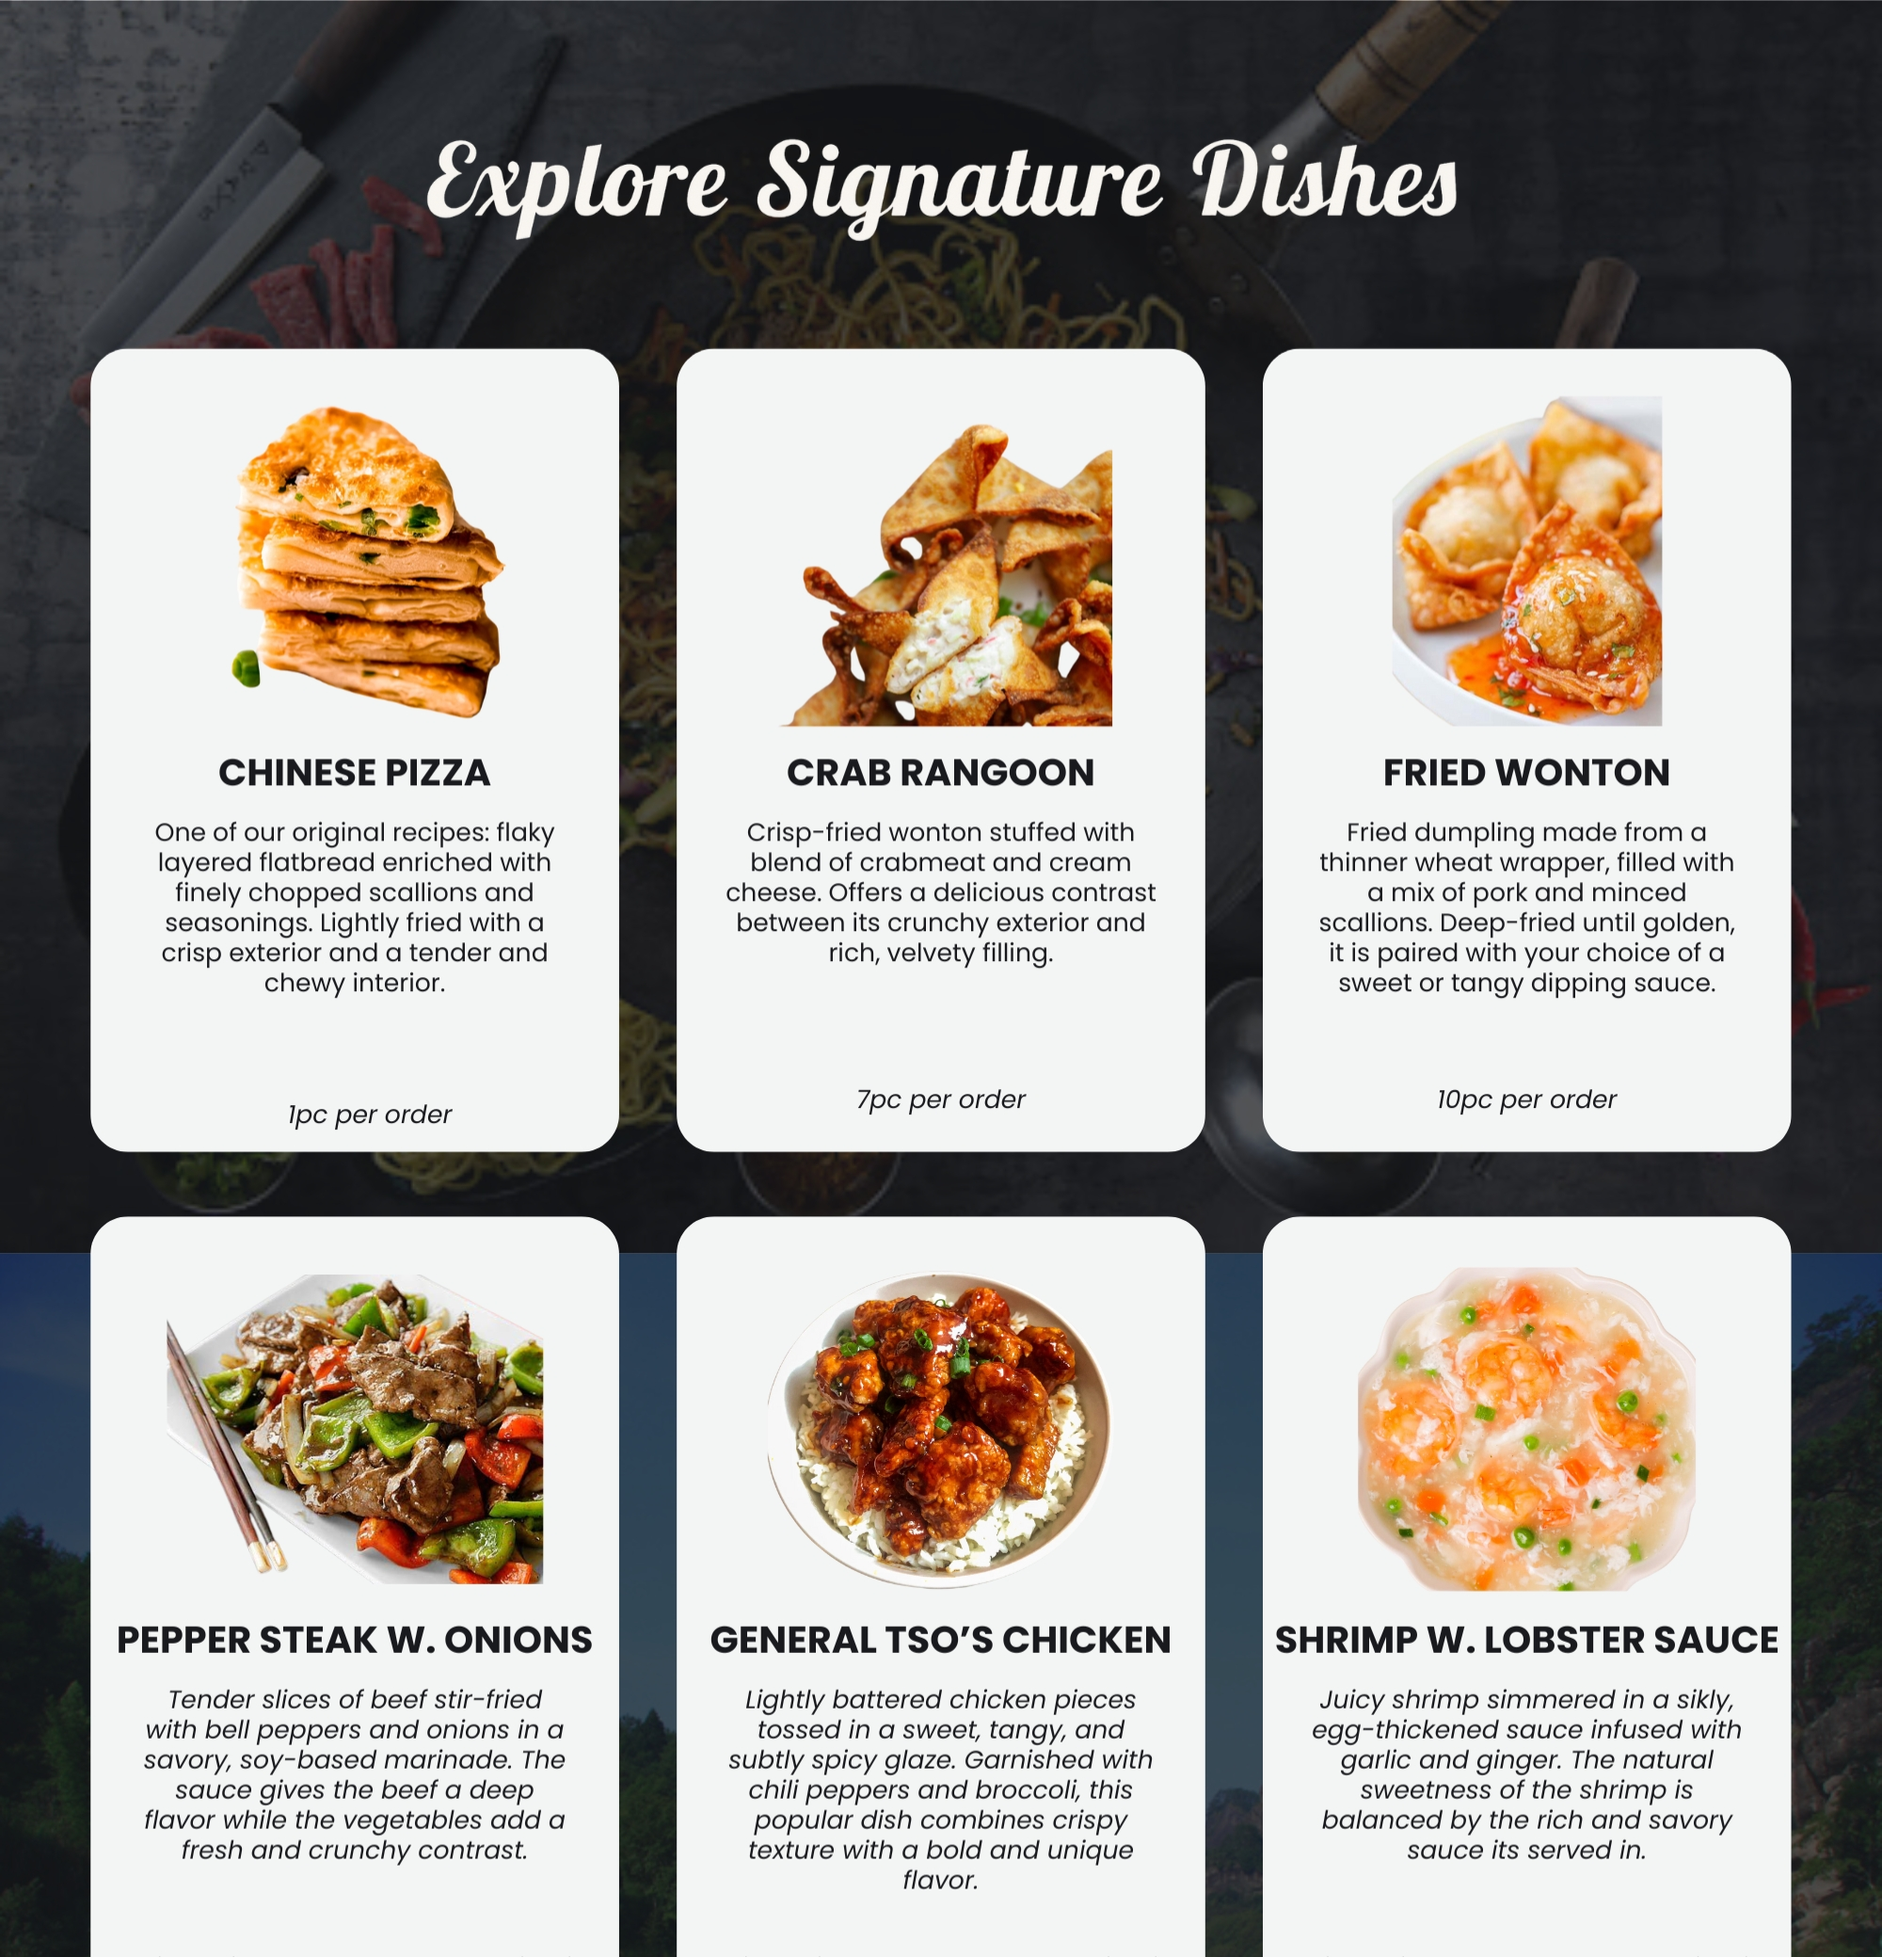
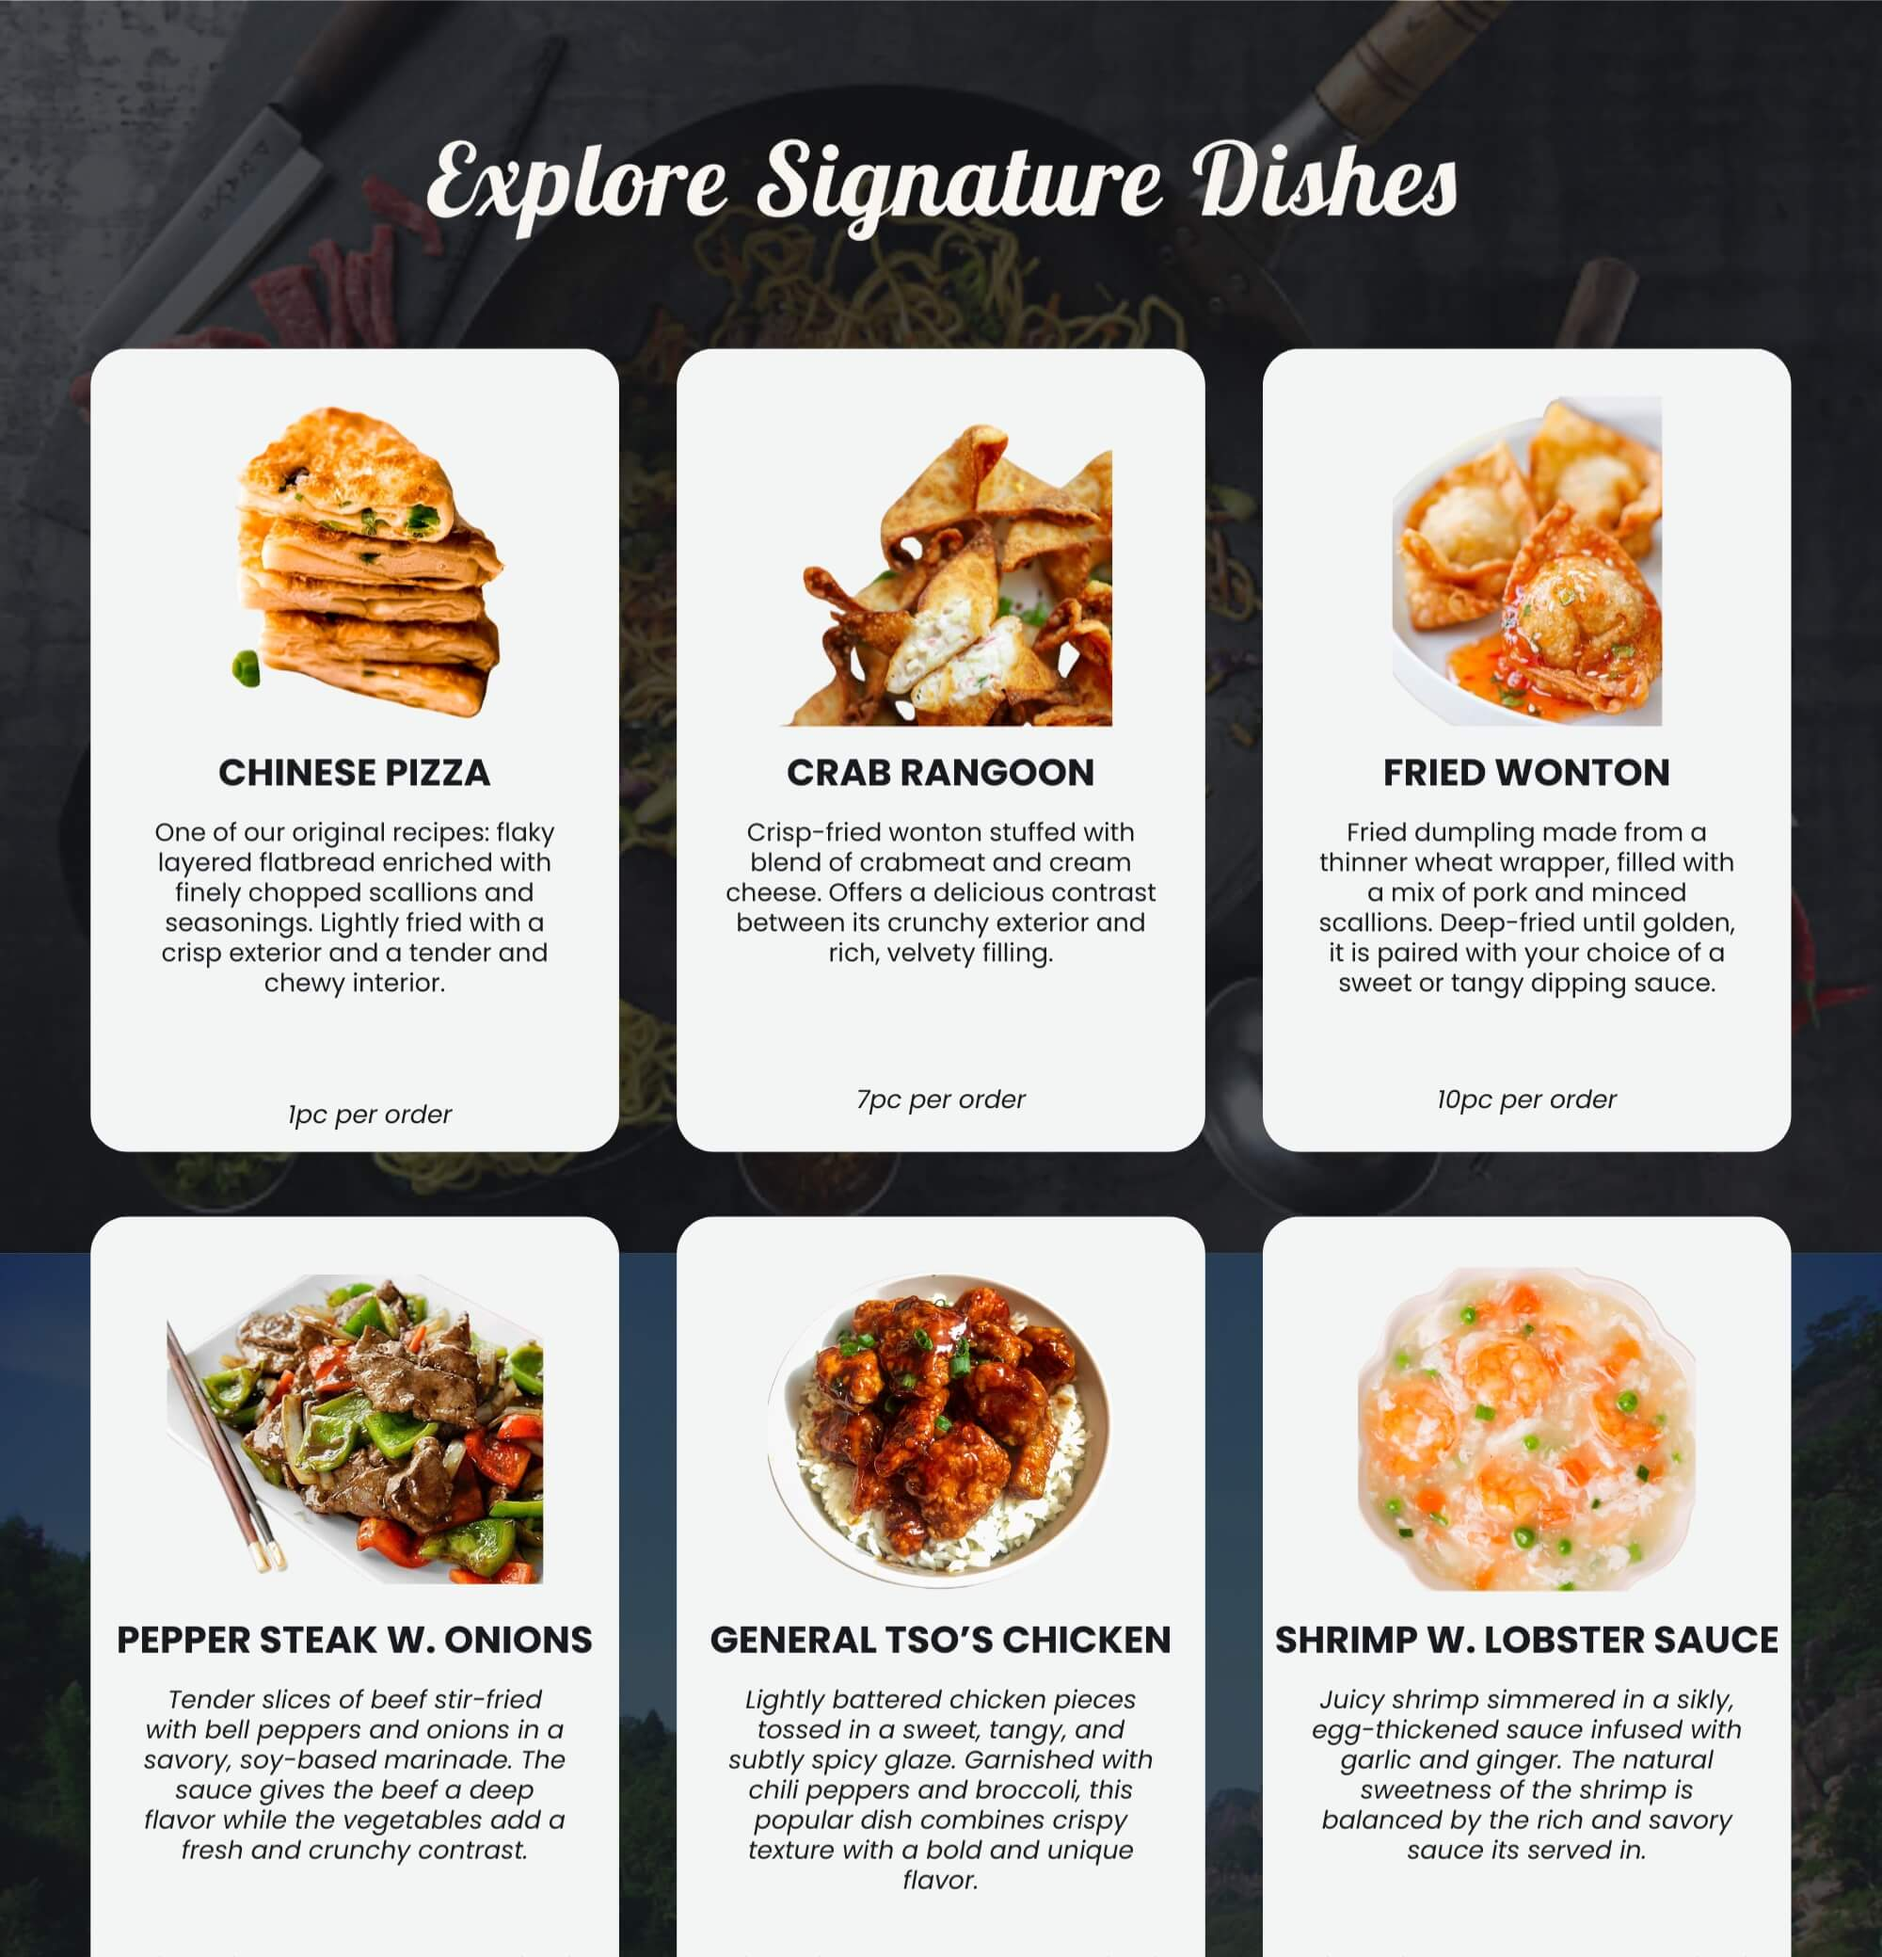
Updated graphics for loadability and removed .DS_Store files from repo

diff --git a/styles/globals.css b/styles/globals.css
@@ -18,22 +18,6 @@ header {
     width: 100%;
 }
 
-.header-image {
-    text-align: center;
-    width: 100%;
-    padding-top: 6.25rem;
-    max-height: 25rem;
-    overflow: hidden;
-}
-.header-image img {
-    max-width: 62.5rem;
-}
-.banner-img {
-    width: 100%;
-    height: auto;
-    object-fit: cover;
-}
-
 /* Top Logo Bar */
 .logo-bar {
     position: fixed;
@@ -50,6 +34,23 @@ header {
 .logo {
     height: 3.125rem;
     cursor: pointer;
+}
+
+/* Website Header Image*/
+.header-image {
+    text-align: center;
+    width: 100%;
+    padding-top: 6.25rem;
+    max-height: 25rem;
+    overflow: hidden;
+}
+.header-image img {
+    max-width: 62.5rem;
+}
+.banner-img {
+    width: 100%;
+    height: auto;
+    object-fit: cover;
 }
 
 .action-buttons {
